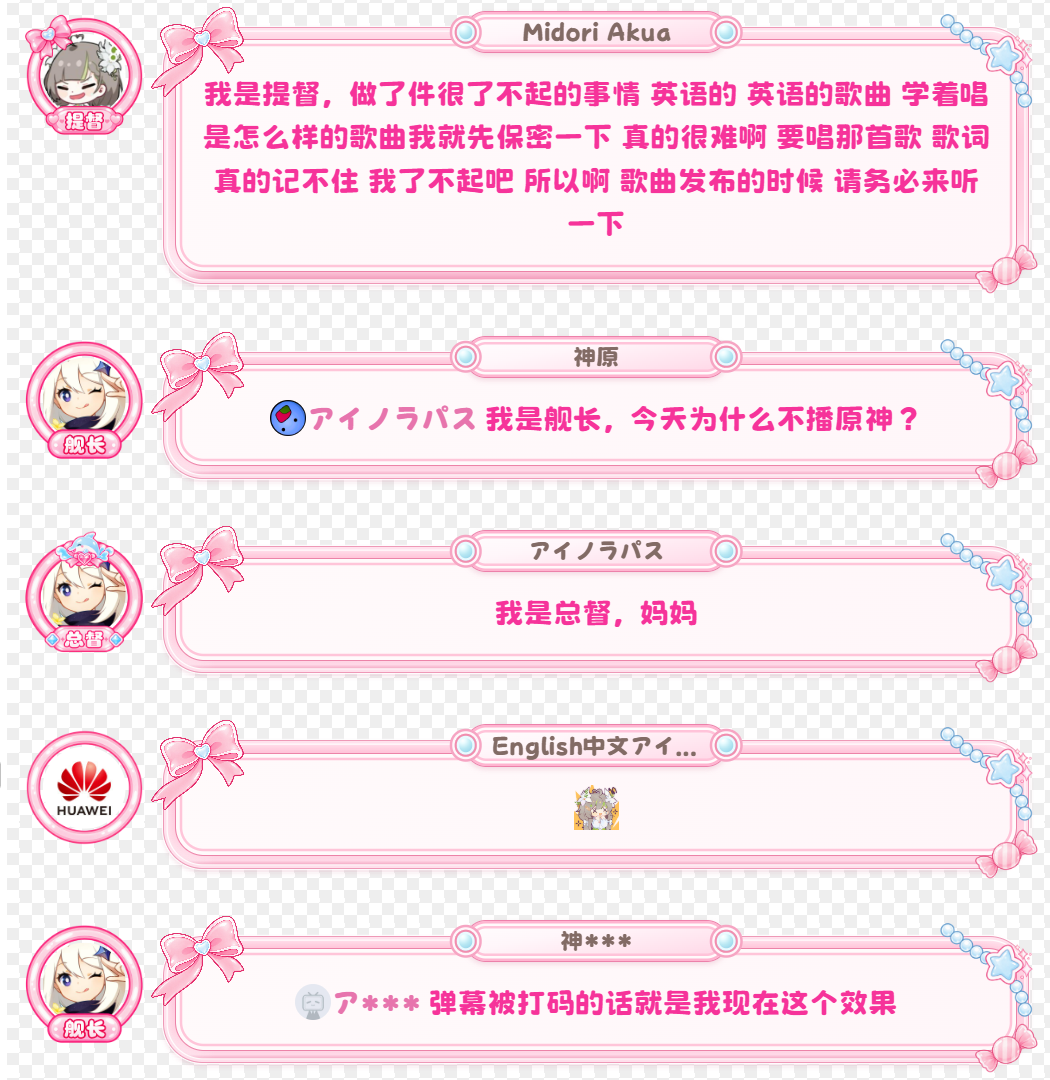
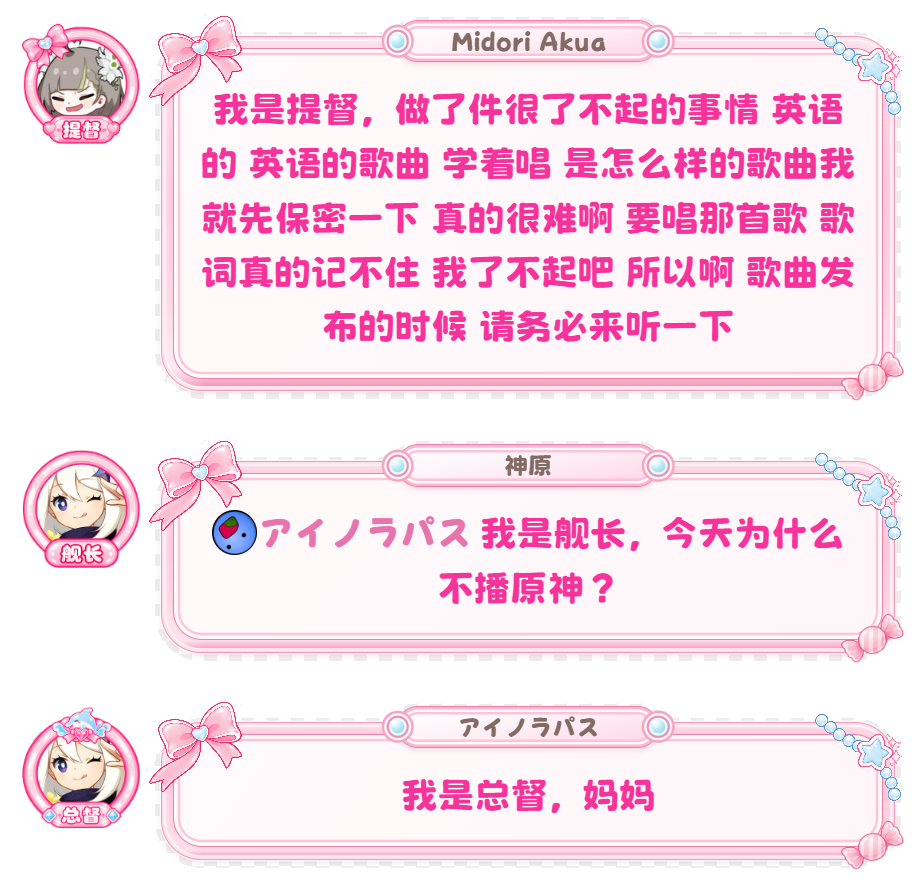
feat: 新增 @thumbnail 模版预览图，README 预览图换成带透明通道的新版截图

diff --git a/dudu-pink-dolphin.css b/dudu-pink-dolphin.css
@@ -2,8 +2,9 @@
   @title        海豚也是豚
   @description  粉色弹幕气泡：自适应正文框 + 顶部用户名名牌，荆南圆体，中英日字体，蝴蝶结/珠链/糖果角标，按大航海等级切换头像装饰框
   @author       JoJoWu
-  @updated      September 10, 2026, 3:37:00 PM GMT+8
-  @version      1.1.0
+  @updated      September 10, 2026, 4:54:00 PM GMT+8
+  @version      1.1.1
+  @thumbnail    https://cdn.jsdelivr.net/gh/JoJoWuBeBetter/dudu-pink-dolphin@main/assets/thumbnail.jpg
 */
 
 /* 引入荆南圆体（ZeoSeven Fonts 在线分包，SIL OFL 1.1） */
